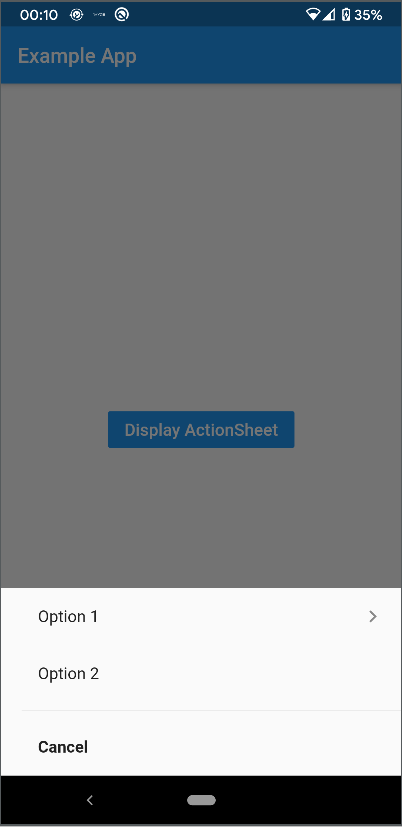
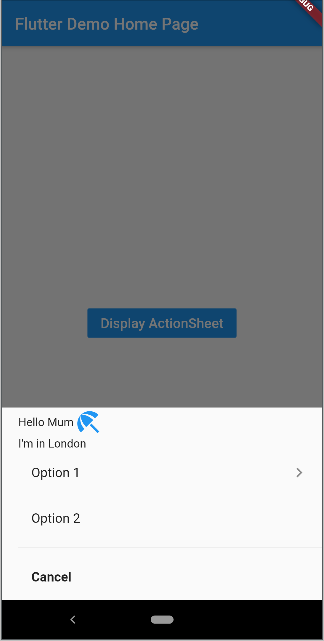
Title & Message options added

diff --git a/lib/platform_action_sheet.dart b/lib/platform_action_sheet.dart
@@ -8,85 +8,126 @@ import 'package:flutter/widgets.dart';
 
 /// Display a platform dependent Action Sheet
 class PlatformActionSheet {
-  // display sheet
-  displaySheet(BuildContext context, List<ActionSheetAction> actions) {
+  /// Function to display the sheet
+  void displaySheet(
+      {@required BuildContext context,
+      Widget title,
+      Widget message,
+      @required List<ActionSheetAction> actions}) {
     if (Platform.isIOS) {
-      _showCupertinoActionSheet(context, actions);
+      _showCupertinoActionSheet(context, title, message, actions);
     } else {
-      _settingModalBottomSheet(context, actions);
+      _settingModalBottomSheet(context, title, message, actions);
     }
   }
 }
 
-void _showCupertinoActionSheet(BuildContext context,
-    List<ActionSheetAction> actions) {
-  var indexOfCancel = actions.lastIndexWhere((action) =>
-  action
-      .isCancel); // Cancel action is treated differently with CupertinoActionSheets
-  var actionSheet = CupertinoActionSheet(
-      actions: List.from(actions.where((action) => !action.isCancel)).map((cAction) => cupertinoActionSheetActionFromAction(cAction)).toList(),
-      cancelButton: indexOfCancel > 0
-          ? cupertinoActionSheetActionFromAction(actions[indexOfCancel])
-          : Container());
-  showCupertinoModalPopup(
-      context: context, builder: (BuildContext context) => actionSheet);
+void _showCupertinoActionSheet(
+    BuildContext context, title, message, List<ActionSheetAction> actions) {
+  final noCancelOption = -1;
+  // Cancel action is treated differently with CupertinoActionSheets
+  var indexOfCancel = actions.lastIndexWhere((action) => action.isCancel);
+  CupertinoActionSheet actionSheet;
+  actionSheet = indexOfCancel == noCancelOption
+      ? CupertinoActionSheet(
+          title: title,
+          message: message,
+          actions: actions
+              .where((action) => !action.isCancel)
+              .map<Widget>(_cupertinoActionSheetActionFromAction)
+              .toList())
+      : CupertinoActionSheet(
+          title: title,
+          message: message,
+          actions: actions
+              .where((action) => !action.isCancel)
+              .map<Widget>(_cupertinoActionSheetActionFromAction)
+              .toList(),
+          cancelButton:
+              _cupertinoActionSheetActionFromAction(actions[indexOfCancel]));
+  showCupertinoModalPopup(context: context, builder: (_) => actionSheet);
 }
 
-CupertinoActionSheetAction cupertinoActionSheetActionFromAction(
-    ActionSheetAction action) =>
+CupertinoActionSheetAction _cupertinoActionSheetActionFromAction(
+        ActionSheetAction action) =>
     CupertinoActionSheetAction(
       child: Text(action.text),
       onPressed: action.onPressed,
       isDefaultAction: action.defaultAction,
     );
 
-ListTile listTileFromAction(ActionSheetAction action) {
-  if (action.hasArrow) {
-    return ListTile(
-      title: Text(action.text),
-      onTap: action.onPressed,
-      trailing: Icon(Icons.keyboard_arrow_right),
-    );
-  } else {
-    return ListTile(
-      title: Text(
-        action.text,
-        style: TextStyle(
-            fontWeight:
-            action.defaultAction ? FontWeight.bold : FontWeight.normal),
-      ),
-      onTap: action.onPressed,
-    );
-  }
-}
+ListTile _listTileFromAction(ActionSheetAction action) => action.hasArrow
+    ? ListTile(
+        title: Text(action.text),
+        onTap: action.onPressed,
+        trailing: Icon(Icons.keyboard_arrow_right),
+      )
+    : ListTile(
+        title: Text(
+          action.text,
+          style: TextStyle(
+              fontWeight:
+                  action.defaultAction ? FontWeight.bold : FontWeight.normal),
+        ),
+        onTap: action.onPressed,
+      );
 
-void _settingModalBottomSheet(context, List<ActionSheetAction> actions) {
-  if (actions?.isNotEmpty ?? false) {
+void _settingModalBottomSheet(
+    context, title, message, List<ActionSheetAction> actions) {
+  if (actions.isNotEmpty) {
     showModalBottomSheet(
         context: context,
-        builder: (BuildContext bc) {
+        builder: (_) {
+          final _lastItem = 1, _secondLastItem = 2;
           return Container(
-            child: ListView.separated(
-                padding: const EdgeInsets.fromLTRB(20, 0, 0, 0),
-                shrinkWrap: true,
-                itemCount: actions.length,
-                itemBuilder: (bc, index) => listTileFromAction(actions[index]),
-                separatorBuilder: (bc, index) => (index==(actions.length-2) &&
-                    actions[actions.length-1].isCancel)
-                    ? Divider() : Container()), // Display a separator only above the last option
+            child: Column(
+              mainAxisSize: MainAxisSize.min,
+              crossAxisAlignment: CrossAxisAlignment.stretch,
+              children: <Widget>[
+                Padding(
+                  padding: const EdgeInsets.only(left: 20),
+                  child: title,
+                ),
+                Padding(
+                  padding: const EdgeInsets.only(left: 20),
+                  child: message,
+                ),
+                ListView.separated(
+                    padding: const EdgeInsets.only(left: 20),
+                    shrinkWrap: true,
+                    itemCount: actions.length,
+                    itemBuilder: (_, index) =>
+                        _listTileFromAction(actions[index]),
+                    separatorBuilder: (_, index) =>
+                        (index == (actions.length - _secondLastItem) &&
+                                actions[actions.length - _lastItem].isCancel)
+                            ? Divider()
+                            : Container()),
+              ],
+            ), // Separator above the last option only
           );
         });
   }
 }
 
-// this class describes an action for either a CupertinoActionSheet or a Bottom Sheet depending on the platform
+/// Data class for Actions in ActionSheet
 class ActionSheetAction {
+  /// Text to display
   final String text;
-  final VoidCallback onPressed;
-  final bool defaultAction;
-  final bool isCancel;
-  final bool hasArrow; // on Android indicates that further options are next
 
+  /// The function which will be called when the action is pressed
+  final VoidCallback onPressed;
+
+  /// Is this a default action - especially for iOS
+  final bool defaultAction;
+
+  /// This is a cancel option - especially for iOS
+  final bool isCancel;
+
+  /// on Android indicates that further options are next
+  final bool hasArrow;
+
+  /// Construction of an ActionSheetAction
   ActionSheetAction({
     @required this.text,
     @required this.onPressed,

diff --git a/README.md b/README.md
@@ -14,7 +14,7 @@ In the pubspec.yaml of your flutter project, add the following dependency:
 ```dart
 dependencies:
   ...
-  platform_action_sheet: ^0.0.2
+  platform_action_sheet: ^0.0.3
 ```
 In your library add the following import:
 ```dart
@@ -55,31 +55,42 @@ class Home extends StatelessWidget {
       ),
       body: Center(
         child: FlatButton(
-          color: Colors.blue,
-          onPressed: () => PlatformActionSheet().displaySheet(
-          context, 
-          [
-            ActionSheetAction(
-              text: "Option 1",
-              onPressed: () => Navigator.pop(context),
-              hasArrow: true,
-            ),
-            ActionSheetAction(
-              text: "Option 2",
-              onPressed: () => Navigator.pop(context),
-            ),
-            ActionSheetAction(
-              text: "Cancel",
-              onPressed: () => Navigator.pop(context),
-              isCancel: true,
-              defaultAction: true,
-            )
-          ]),
-          child: Text(
-            'Display ActionSheet',
-            textScaleFactor: 1.2,
-            style: TextStyle(color: Colors.white),
-          ),
+              color: Colors.blue,
+              onPressed: () => PlatformActionSheet().displaySheet(
+                  context: context,
+                  title: Row(
+                    children: <Widget>[
+                      Text("Hello Mum"),
+                      Icon(
+                        Icons.beach_access,
+                        color: Colors.blue,
+                        size: 36.0,
+                      ),
+                    ],
+                  ),
+                  message: Text("I'm in London"),
+                  actions: [
+                    ActionSheetAction(
+                      text: "Option 1",
+                      onPressed: () => Navigator.pop(context),
+                      hasArrow: true,
+                    ),
+                    ActionSheetAction(
+                      text: "Option 2",
+                      onPressed: () => Navigator.pop(context),
+                    ),
+                    ActionSheetAction(
+                      text: "Cancel",
+                      onPressed: () => Navigator.pop(context),
+                      isCancel: true,
+                      defaultAction: true,
+                    )
+                  ]),
+              child: Text(
+                'Display ActionSheet',
+                textScaleFactor: 1.2,
+                style: TextStyle(color: Colors.white),
+              ),
         ),
       ),
     );

diff --git a/CHANGELOG.md b/CHANGELOG.md
@@ -1,3 +1,9 @@
+## 0.0.3
+ * Added Title and Message widget options
+ * Changed arguments to all named arguments
+ * Documented all public functions
+ * Updated example code
+
 ## 0.0.2
  * Only onCancel action causes a divider on the last item
  * Fixed links to demo screenshots 
